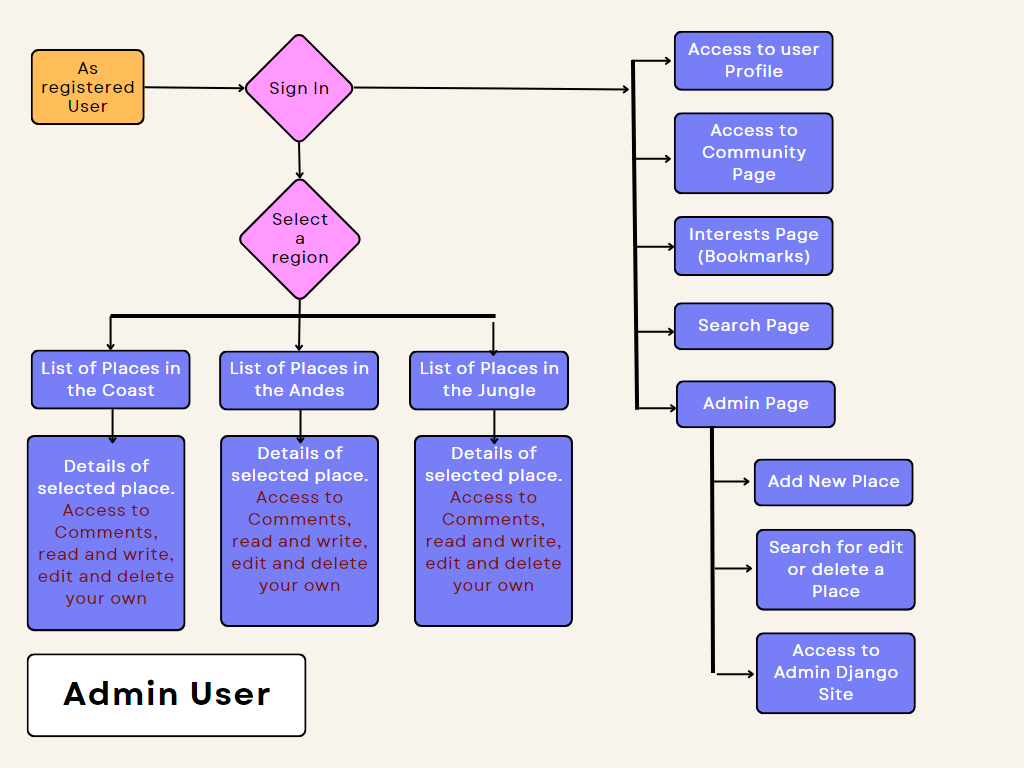
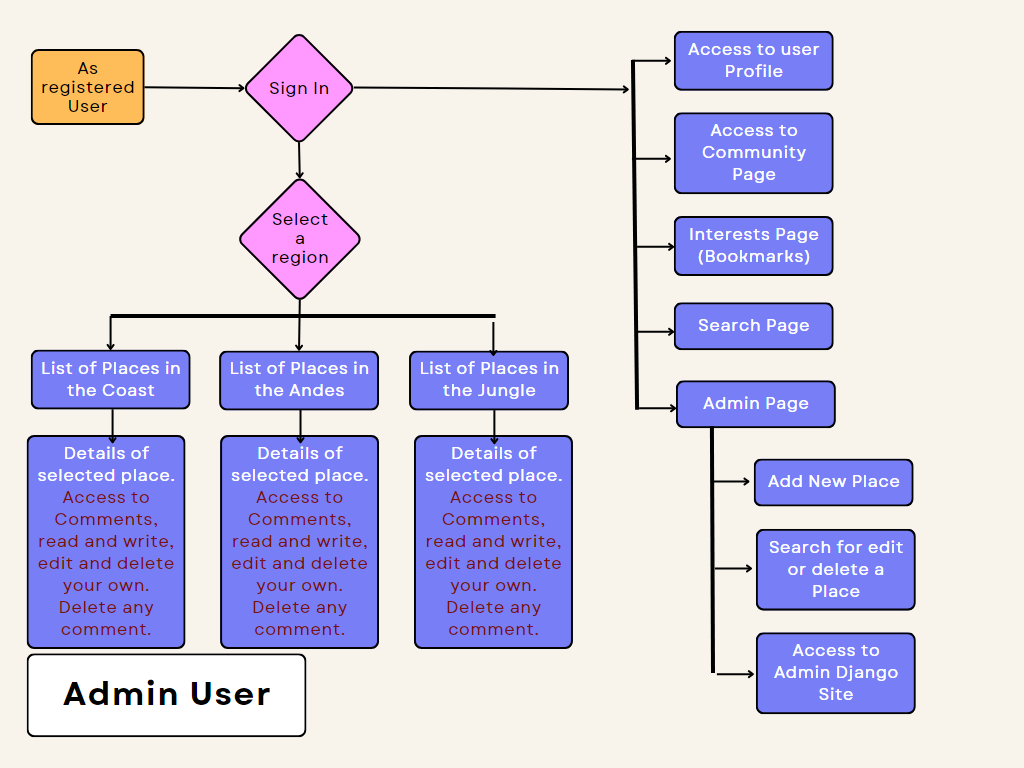
Add to ReadMe.

Changed region(s): [[0.0, 0.5625, 0.375, 0.8438], [0.4062, 0.75, 0.5625, 0.8438]]

diff --git a/readme_docs/md_files/testing.md b/readme_docs/md_files/testing.md
@@ -1,0 +1,49 @@
+## Navbar
+
+The features will be display according to the logged user, as marked in [features](/readme_docs/md_files/features.md) page 
+
+
+| Feature   	| Expected Action   	| Result   	|
+|---	|---	|---	|
+| Logo    	| Brings the user to landing page   	| Pass   	|
+| Toggle button  	| Toggle to reveal the menu   	| Pass  	|
+| Register  	| Brings the user to Sign Up page  	| Pass  	|
+| Log In  	| Brings the user to Log In page  	| Pass   	|
+| My Profile   	| Brings the user to their Profile page  	| Pass  	|
+| Community  	| Brings the user to the Community page   	| Pass  	|
+| Interests  	| Brings the user to the Interests page   	| Pass  	|
+| Search   	| Brings the user to the Search page   	| Pass  	|
+| Log Out  	| Brings the users to the Sign Out page  	| Pass   	|
+| Admin Page  	| Brings the user to the Admin Page   	| Pass  	|
+
+
+
+## Footer
+
+| Feature   	| Expected Action   	| Result   	|
+|---	|---	|---	|
+| Facebook Icon    	| Open facebook in a new tab.   	| Pass   	|
+| Twitter Icon  	| Open twitter in a new tab.	| Pass  	|
+| Instagram Icon  	| Open instagram in a new tab.  	| Pass  	|
+
+
+## Index Page
+
+| Feature   	| Expected Action   	| Result   	|
+|---	|---	|---	|
+| Main Image    	| Brings the user to the regions section.   	| Pass   	|
+| Coast Region  	| Brings the user to the Coast region.  	| Pass  	|
+| Andes Region  	| Brings the user to the Andes region.  	| Pass  	|
+| Jungle Region  	| Brings the user to the Jungle region.  	| Pass  	|
+
+
+## Region (Coast, Andes and Jungle)
+
+Each region will display the same functionality.
+
+| Feature   	| Expected Action   	| Result   	|
+|---	|---	|---	|
+| Title    	| Brings the user to the first page of the region .  	| Pass   	|
+| Pagination  	| Allow the user to navigate through the different pages and visualize all the places/posts.  	| Pass  	|
+| Cards (for each place/post to display)    	| Brings the user to the selected place/post information in detail.   	| Pass   	|
+| Previous Button  	| Brings the user to the previous page according to the browswer history.  	| Pass  	|

diff --git a/readme_docs/md_files/deployment.md b/readme_docs/md_files/deployment.md
@@ -2,6 +2,9 @@ Deployment proccess:
 
 1. Log in [Github](https://github.com/).
     - Open the repo to deploy. The one for the site is [here](https://github.com/IvetteMcDermott/PP4Django-PeruExperience).
+
+![repo](/readme_docs/readme_images/deployment/github-repo.png)
+
 2. Log in [Heroku](https://id.heroku.com/login).
     - Click in the "New" button in the top right.
     - Select "Create New App"
@@ -14,12 +17,22 @@ Deployment proccess:
         - DataBase Elephant (DataBase Host)
         - PORT 8000
         - Django (Framework)
+
+![vars](/readme_docs/readme_images/deployment/heroku%20config%20values.jpg)
+
     - Go to Deploy in the nav bar. In Deploment Method, select GitHub/Connect to GitHub.
     - In Connect to GitHub, write the repository name and click in search.
     - Once the route for the repo appears under the search, click in "Connect" button.
     - The deployment can be Manual or Automatic, select the one of your preference. Automatic has the advantage of updating your deployed site as you push the commit in GitHub.
     - Verify that "Branch to deploy" is master/main.
     - Click Deploy.
+
+![first](/readme_docs/readme_images/deployment/Heroku%20build%20first%20deployment.jpg)
+
+![first-success](/readme_docs/readme_images/deployment/SS%20Installation%20and%20Setting%20Django%20project%20and%20app%20-%20open%20browser.png)
+
+![deploy-after-validation](/readme_docs/readme_images/deployment/deploy%20after%20validation.png)
+
 
 Steps to use this repository:
 

diff --git a/README.md b/README.md
@@ -18,6 +18,22 @@ User Story: User Registration. LogIn and LogOut#7
 
 ## User Stories RoadMap
 
+## Flowcharts
+
+### Unregistered User
+
+![unregistered](./readme_docs/readme_images/diagrams/flowchart%20unregister%20user.png)
+
+### Registered User
+
+![register](./readme_docs/readme_images/diagrams/flowchart%20register%20user.png)
+
+### Admin User
+
+![admin](./readme_docs/readme_images/diagrams/flowchart%20admin%20user.png)
+
+
+
 
 # Features
 
@@ -96,12 +112,14 @@ Documentation for [here](https://docs.djangoproject.com/en/4.1/intro/)
 
 - [FontAwesome](https://fontawesome.com/)
 
-# Testing Manual
-
 
 # Validation
 
 The validation reports can be find [here](./readme_docs/md_files/validation.md)
+
+# Testing
+
+
 
 # Deployment
 

diff --git a/readme_docs/md_files/features.md b/readme_docs/md_files/features.md
@@ -121,6 +121,15 @@ In this page will be display all the registered users that had updated their pro
 
 ![Community](../readme_images/features/community%20page%20site.png)
 
+## Admin Page
+
+This page is displayed just for admin users. It has access to the form for add new places, search to find a place so edit or delete it. Also has a direct link to the Django Admin Site. Note that this page will lose format once the debug is set to False.
+
+![admin](../readme_images/features/admin%20page%20s.png)
+
+![admin-add](../readme_images/features/form%20to%20add%20new%20place.png)
+
+![admin-search](../readme_images/features/form%20search%20for%20admin.png)
 
 
 
